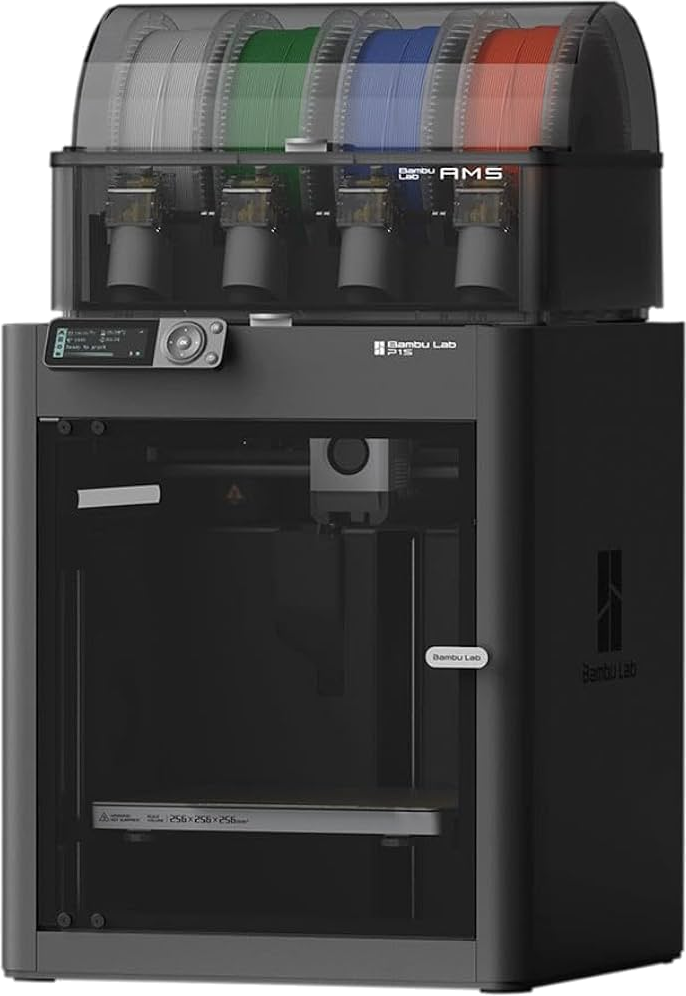
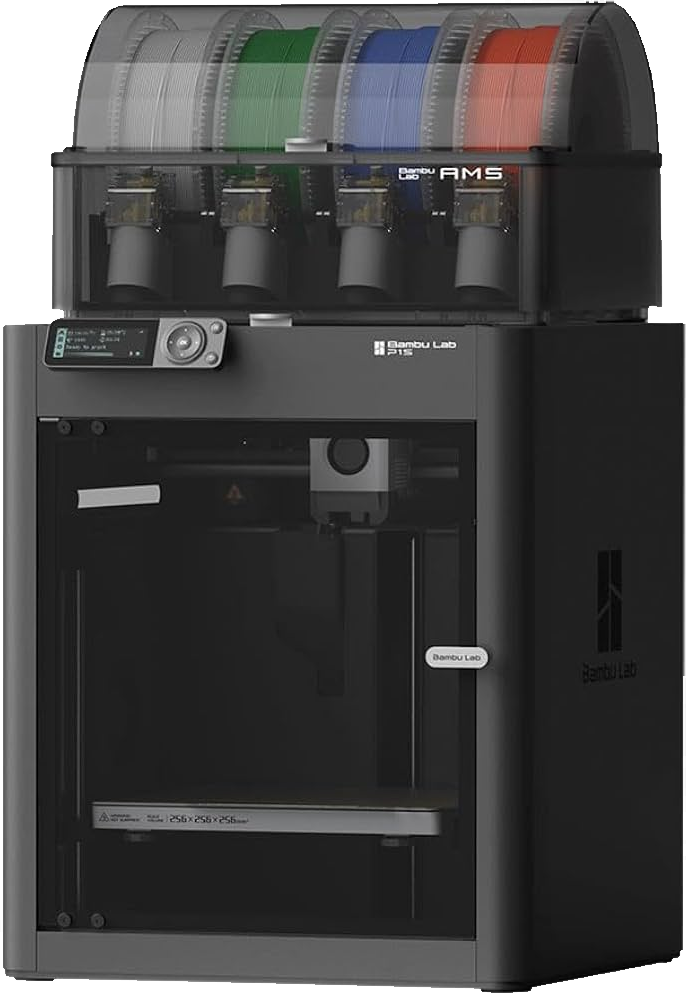
Impression 3D : corrections de relecture avant publication
- Photo « imprimante + montures » retirée : identique à un visuel
  d'oomade.com (reproduction soumise à l'accord écrit de FTA), décision
  du propriétaire. Section sur mesure : fiche technique à la place.
- Image de partage og-impression-3d (1200×630) composée à partir de la
  photo de la P1S (tools/affiches/og-impression-3d.html).
- P1S détourée : liseré blanc supprimé (alpha érodé de 2 px).
- Grammaire (« ou sa référence », « une monture fabriquée sur place »),
  source de « amidon de maïs » citée, contraste de la légende sur crème.
- CLAUDE.md : liste complète des endroits à modifier si le tarif change.

Claude-Session: https://claude.ai/code/session_011Cfk4Fi6m6746xBwvrMTkP

diff --git a/impression-3d.html b/impression-3d.html
@@ -12,19 +12,23 @@
 <meta property="og:url" content="https://www.pigeard-opticiens.fr/impression-3d.html" />
 <meta property="og:title" content="Lunettes cassées ? Dépannage imprimé en 3D en magasin — Pigeard Opticiens" />
 <meta property="og:description" content="Une monture de dépannage imprimée à la forme de vos verres en une vingtaine de minutes, pour 30 €, dans nos 3 magasins du Perche. Ouvert à tous." />
-<meta property="og:image" content="https://www.pigeard-opticiens.fr/assets/photos/impression-3d/imprimante-montures.jpg" />
-<meta property="og:image:width" content="1100" />
-<meta property="og:image:height" content="1100" />
+<meta property="og:image" content="https://www.pigeard-opticiens.fr/assets/photos/impression-3d/og-impression-3d.jpg" />
+<meta property="og:image:width" content="1200" />
+<meta property="og:image:height" content="630" />
 <meta name="twitter:card" content="summary_large_image" />
 <meta name="twitter:title" content="Lunettes imprimées en 3D — Pigeard Opticiens" />
 <meta name="twitter:description" content="Dépannage de lunettes cassées en une vingtaine de minutes (30 €) et montures sur mesure, imprimés en 3D dans nos magasins du Perche." />
-<meta name="twitter:image" content="https://www.pigeard-opticiens.fr/assets/photos/impression-3d/imprimante-montures.jpg" />
+<meta name="twitter:image" content="https://www.pigeard-opticiens.fr/assets/photos/impression-3d/og-impression-3d.jpg" />
 <!--
   Sources des informations :
   - Propriétaire (2026-10-14) : service disponible dans les 3 magasins, monture de dépannage adaptée
     aux verres de la monture cassée à 30 €, ouvert à tous les clients, une vingtaine de minutes,
-    imprimante Bambu Lab P1S. Les deux photos (imprimante détourée, imprimante + montures) ont été
-    fournies par le propriétaire pour publication.
+    imprimante Bambu Lab P1S. Photo de l'imprimante (détourée) fournie par le propriétaire pour
+    publication ; image de partage og-impression-3d.* composée à partir d'elle
+    (tools/affiches/og-impression-3d.html).
+  - Une 2e photo fournie (imprimante + 2 montures) s'est révélée identique à oom13-proto-duo.jpg
+    d'oomade.com : retirée avant publication (choix du propriétaire, 2026-10-14), à remettre
+    seulement avec l'accord écrit de FTA ou une photo prise dans un magasin Pigeard.
   - https://www.oomade.com/ootrace/ (vérifié le 2026-10-14) : relevé du verre au smartphone, face
     redessinée à la forme du verre, verres d'origine remontés, PLA éphémère « quelques semaines »,
     charnières métal, verres asymétriques gérés.
@@ -32,6 +36,8 @@
     mesures du porteur, choix à l'écran, « quelques dizaines de minutes », PETG recyclable,
     ISO 12870, numéro de série dans la branche → réimpression à l'identique. Le relevé de
     morphologie par scan du visage y est marqué « Bientôt disponible » → non mentionné ici.
+  - https://www.oomade.com/ (page d'accueil, vérifiée le 2026-10-14) : PLA « biosourcé », « à base
+    d'amidon de maïs », pour le dépannage.
   - Silmo d'Or 2024 : OOmade lauréat (catégorie innovation technologique, « OOmade SAV 3D »),
     https://eyecarebusiness.com/news/2024/winners-of-31st-silmo-dor-awards-announced/
   Aucune photo d'oomade.com n'est utilisée (reproduction soumise à l'autorisation écrite de FTA).
@@ -44,7 +50,7 @@
   "url": "https://www.pigeard-opticiens.fr/impression-3d.html",
   "name": "Lunettes imprimées en 3D en magasin — Pigeard Opticiens",
   "description": "Dépannage de lunettes cassées par impression 3D d'une monture à la forme des verres du client (30 €, une vingtaine de minutes, dans les trois magasins Pigeard), et montures sur mesure imprimées en magasin avec la solution OOmade.",
-  "image": "https://www.pigeard-opticiens.fr/assets/photos/impression-3d/imprimante-montures.jpg",
+  "image": "https://www.pigeard-opticiens.fr/assets/photos/impression-3d/og-impression-3d.jpg",
   "breadcrumb": {
     "@type": "BreadcrumbList",
     "itemListElement": [
@@ -80,7 +86,7 @@
     {"@type": "Question", "name": "Combien coûte le dépannage ?", "acceptedAnswer": {"@type": "Answer", "text": "30 € pour la monture de dépannage, imprimée à la forme des verres de votre monture cassée."}},
     {"@type": "Question", "name": "Combien de temps faut-il ?", "acceptedAnswer": {"@type": "Answer", "text": "Comptez une vingtaine de minutes pour un dépannage. Une monture définitive sur mesure demande quelques dizaines de minutes."}},
     {"@type": "Question", "name": "Dans quel magasin, et faut-il être client ?", "acceptedAnswer": {"@type": "Answer", "text": "Le service est proposé dans nos trois magasins : Nogent-le-Rotrou, Brou et La Loupe. Il est ouvert à tous, que vous soyez déjà client Pigeard ou non."}},
-    {"@type": "Question", "name": "Mes lunettes sont cassées : que dois-je apporter ?", "acceptedAnswer": {"@type": "Answer", "text": "Vos verres avant tout : ce sont eux qui servent de modèle à la nouvelle monture. Peu importe l'état de la monture d'origine, ni sa référence."}},
+    {"@type": "Question", "name": "Mes lunettes sont cassées : que dois-je apporter ?", "acceptedAnswer": {"@type": "Answer", "text": "Vos verres avant tout : ce sont eux qui servent de modèle à la nouvelle monture. Peu importe l'état de la monture d'origine ou sa référence."}},
     {"@type": "Question", "name": "Faut-il refaire mes verres ou une nouvelle ordonnance ?", "acceptedAnswer": {"@type": "Answer", "text": "Non. Vos verres d'origine sont remontés sur la monture imprimée : votre correction ne change pas."}},
     {"@type": "Question", "name": "La monture de dépannage est-elle faite pour durer ?", "acceptedAnswer": {"@type": "Answer", "text": "Non, et c'est voulu : elle est imprimée en PLA, une matière biosourcée dont la durée de vie est limitée à quelques semaines, le temps de choisir votre prochain équipement."}},
     {"@type": "Question", "name": "Une monture imprimée en 3D, c'est solide ?", "acceptedAnswer": {"@type": "Answer", "text": "La monture définitive est imprimée en PETG, un polyester technique résistant aux chocs, et répond à la norme ISO 12870, la norme des montures de lunettes. Un numéro de série imprimé dans la branche permet de réimprimer une pièce cassée à l'identique."}}
@@ -129,8 +135,9 @@
 .sec--cream .i3-num::before{background:var(--bois)}
 .i3-h2{font-family:var(--serif);font-weight:700;font-size:clamp(2.2rem,5vw,3.6rem);line-height:1.03;letter-spacing:-.02em}
 .i3-intro{display:grid;grid-template-columns:1.05fr .95fr;gap:clamp(40px,6vw,90px);align-items:center}
-.i3-photo{border-radius:18px;overflow:hidden;box-shadow:0 24px 70px -24px rgba(0,0,0,.45)}
-.i3-photo img{width:100%;height:auto;display:block}
+.i3-fiche{border-radius:20px;background:#fff;padding:clamp(28px,4vw,44px);box-shadow:0 24px 60px -30px rgba(38,35,28,.35)}
+.i3-fiche .tag{font-size:.72rem;letter-spacing:.22em;text-transform:uppercase;font-weight:700;color:var(--bois)}
+.i3-fiche .i3-specs{margin-top:18px;gap:18px}
 
 /* ── encart tarif du dépannage ── */
 .i3-tarif{border-radius:20px;background:var(--creme);color:var(--encre);padding:clamp(28px,4vw,44px);box-shadow:0 30px 80px -30px rgba(0,0,0,.7);position:relative;overflow:hidden}
@@ -197,7 +204,7 @@
   .i3-atouts{grid-template-columns:repeat(2,1fr)}
   .i3-eng{grid-template-columns:1fr}
   .i3-intro{grid-template-columns:1fr}
-  .i3-intro .i3-photo{max-width:560px}
+  .i3-fiche{max-width:560px}
   .i3-tarif{max-width:520px}
   .i3-etapes{grid-template-columns:1fr}
 }
@@ -328,29 +335,29 @@
 <section class="sec sec--cream" id="sur-mesure-3d">
   <div class="wrap">
     <div class="i3-intro">
-      <div class="i3-photo reveal">
-        <picture><source srcset="assets/photos/impression-3d/imprimante-montures.webp" type="image/webp"><img src="assets/photos/impression-3d/imprimante-montures.jpg" alt="L'imprimante 3D en magasin et deux montures imprimées, l'une noire, l'autre écaille, posées sur le comptoir" width="1100" height="1100" loading="lazy" decoding="async"></picture>
-      </div>
       <div class="reveal">
         <div class="i3-num">02 — Création sur mesure</div>
         <h2 class="i3-h2">Une monture dessinée <em style="font-style:italic;color:var(--vert)">pour vous</em>, imprimée sous vos yeux.</h2>
         <p style="margin-top:22px;max-width:52ch">L'imprimante ne sert pas qu'au dépannage : elle fabrique aussi des montures définitives, conçues pour un seul visage. Écart entre les yeux, largeur et hauteur du nez, distance aux tempes, longueur des branches : la monture part de vos mesures, pas d'une taille standard.</p>
         <p style="margin-top:14px;max-width:52ch">Forme, épaisseur, couleur, finition : vous voyez votre modèle à l'écran et vous le modifiez avec nous, en direct. Puis l'impression démarre en magasin — quelques dizaines de minutes, et vous pouvez assister à sa fabrication.</p>
+        <div style="margin-top:30px">
+          <a class="btn btn--primary" href="magasins.html#rdv">Prendre rendez-vous <span class="arr">→</span></a>
+        </div>
+      </div>
+      <div class="i3-fiche reveal">
+        <span class="tag">La monture définitive</span>
         <div class="i3-specs">
           <div class="i3-spec"><span class="dot"></span><p><strong>Matière</strong> — PETG, un polyester technique résistant aux chocs et recyclable.</p></div>
           <div class="i3-spec"><span class="dot"></span><p><strong>Norme</strong> — conforme à la norme ISO 12870, celle des montures de lunettes.</p></div>
           <div class="i3-spec"><span class="dot"></span><p><strong>Vos verres</strong> — la monture est conçue autour de vos verres et de leur centrage : un atout pour les fortes corrections.</p></div>
           <div class="i3-spec"><span class="dot"></span><p><strong>Réparable</strong> — un numéro de série imprimé dans la branche permet de réimprimer une pièce cassée à l'identique.</p></div>
         </div>
-        <div style="margin-top:30px">
-          <a class="btn btn--primary" href="magasins.html#rdv">Prendre rendez-vous <span class="arr">→</span></a>
-        </div>
       </div>
     </div>
 
     <div class="i3-note reveal" style="max-width:760px;margin:56px auto 0">
       <span class="tag">Deux sur-mesure, deux savoir-faire</span>
-      <p>Nos lunettes faites main dans l'acétate du Jura, dans notre atelier de Nogent-le-Rotrou, restent notre signature. L'impression 3D ouvre une autre voie : fabriquée sur place, dans la journée, pour les visages que les tailles standard habillent mal. <a href="services.html#sur-mesure">Découvrir le sur-mesure fait main</a>.</p>
+      <p>Nos lunettes faites main dans l'acétate du Jura, dans notre atelier de Nogent-le-Rotrou, restent notre signature. L'impression 3D ouvre une autre voie : une monture fabriquée sur place, dans la journée, pour les visages que les tailles standard habillent mal. <a href="services.html#sur-mesure">Découvrir le sur-mesure fait main</a>.</p>
     </div>
   </div>
 </section>
@@ -390,7 +397,7 @@
     <details class="faq-item reveal"><summary>Combien coûte le dépannage ?</summary><p>30 € pour la monture de dépannage, imprimée à la forme des verres de votre monture cassée.</p></details>
     <details class="faq-item reveal"><summary>Combien de temps faut-il ?</summary><p>Comptez une vingtaine de minutes pour un dépannage. Une monture définitive sur mesure demande quelques dizaines de minutes.</p></details>
     <details class="faq-item reveal"><summary>Dans quel magasin, et faut-il être client ?</summary><p>Le service est proposé dans nos trois magasins : <a href="opticien-nogent-le-rotrou.html">Nogent-le-Rotrou</a>, <a href="opticien-brou.html">Brou</a> et <a href="opticien-la-loupe.html">La Loupe</a>. Il est ouvert à tous, que vous soyez déjà client Pigeard ou non.</p></details>
-    <details class="faq-item reveal"><summary>Mes lunettes sont cassées : que dois-je apporter ?</summary><p>Vos verres avant tout : ce sont eux qui servent de modèle à la nouvelle monture. Peu importe l'état de la monture d'origine, ni sa référence.</p></details>
+    <details class="faq-item reveal"><summary>Mes lunettes sont cassées : que dois-je apporter ?</summary><p>Vos verres avant tout : ce sont eux qui servent de modèle à la nouvelle monture. Peu importe l'état de la monture d'origine ou sa référence.</p></details>
     <details class="faq-item reveal"><summary>Faut-il refaire mes verres ou une nouvelle ordonnance ?</summary><p>Non. Vos verres d'origine sont remontés sur la monture imprimée : votre correction ne change pas.</p></details>
     <details class="faq-item reveal"><summary>La monture de dépannage est-elle faite pour durer ?</summary><p>Non, et c'est voulu : elle est imprimée en PLA, une matière biosourcée dont la durée de vie est limitée à quelques semaines, le temps de choisir votre prochain équipement.</p></details>
     <details class="faq-item reveal"><summary>Une monture imprimée en 3D, c'est solide ?</summary><p>La monture définitive est imprimée en PETG, un polyester technique résistant aux chocs, et répond à la norme ISO 12870, la norme des montures de lunettes. Un numéro de série imprimé dans la branche permet de réimprimer une pièce cassée à l'identique.</p></details>

diff --git a/tools/affiches/og-impression-3d.html b/tools/affiches/og-impression-3d.html
@@ -1,0 +1,56 @@
+<!DOCTYPE html>
+<html lang="fr">
+<head>
+<meta charset="utf-8">
+<title>Visuel de partage — Impression 3D chez Pigeard</title>
+<!-- Image de partage 1 200 × 630 (og:image / twitter:image) de impression-3d.html,
+     rendue en JPEG + WebP via tools/affiches/rendu-visuel.mjs :
+       node rendu-visuel.mjs og-impression-3d.html ../../assets/photos/impression-3d/og-impression-3d 1200 630
+     - imprimante : photo de la Bambu Lab P1S fournie par le propriétaire le 2026-10-14,
+       détourée (assets/photos/impression-3d/bambu-lab-p1s.png) ;
+     - textes : informations du propriétaire du 2026-10-14 (3 magasins, 30 €, une
+       vingtaine de minutes) ; aucune photo ni logo d'oomade.com n'est reproduit. -->
+<link rel="stylesheet" href="../../assets/css/fonts.css">
+<style>
+  :root{
+    --fond:#12110E; --creme:#E7DDCB; --blanc:#EFE9DF; --camel:#D1A379; --vert:#9DAA78;
+    --corail:#FF625B; --muted:#938B7C;
+    --serif:'Playfair Display',Georgia,serif;
+    --sans:'Karla',system-ui,sans-serif;
+    --hand:'Reenie Beanie',cursive;
+  }
+  *{margin:0;padding:0;box-sizing:border-box}
+  html,body{width:1200px;height:630px;overflow:hidden}
+  body{
+    position:relative;font-family:var(--sans);color:var(--blanc);
+    background:
+      radial-gradient(420px 380px at 930px 330px, rgba(239,233,223,.30), rgba(209,163,121,.10) 58%, transparent 80%),
+      radial-gradient(520px 420px at 160px 120px, rgba(126,140,90,.20), transparent 75%),
+      var(--fond);
+  }
+  .texte{position:absolute;left:78px;top:84px;width:620px}
+  .pill{display:inline-flex;align-items:center;gap:10px;font-size:15px;font-weight:700;letter-spacing:.16em;text-transform:uppercase;color:#0E0D0B;background:var(--corail);padding:9px 18px;border-radius:100px}
+  .pill i{width:8px;height:8px;border-radius:50%;background:#0E0D0B}
+  h1{font-family:var(--serif);font-weight:800;font-size:66px;line-height:1.02;letter-spacing:-.02em;margin-top:26px}
+  h1 em{font-style:italic;color:var(--vert)}
+  .sous{font-family:var(--serif);font-style:italic;font-size:27px;line-height:1.35;color:var(--creme);margin-top:22px;max-width:560px}
+  .prix{display:flex;align-items:baseline;gap:16px;margin-top:30px}
+  .prix b{font-family:var(--serif);font-weight:800;font-size:58px;line-height:1;color:var(--blanc)}
+  .prix span{font-size:20px;color:var(--muted);max-width:300px;line-height:1.35}
+  .machine{position:absolute;right:120px;top:52px;height:500px;filter:drop-shadow(0 30px 36px rgba(0,0,0,.6))}
+  .hand{position:absolute;right:150px;bottom:24px;font-family:var(--hand);font-size:38px;color:var(--camel);transform:rotate(-3deg)}
+  .marque{position:absolute;left:78px;bottom:40px;font-size:15px;letter-spacing:.32em;text-transform:uppercase;color:var(--muted)}
+</style>
+</head>
+<body>
+  <div class="texte">
+    <span class="pill"><i></i>Nouveau dans nos 3 magasins</span>
+    <h1>Lunettes cassées ?<br>Dépannées <em>en 3D</em>.</h1>
+    <p class="sous">Une monture à la forme de vos verres, prête en une vingtaine de minutes.</p>
+    <div class="prix"><b>30 €</b><span>la monture de dépannage, ouvert à tous</span></div>
+  </div>
+  <img class="machine" src="../../assets/photos/impression-3d/bambu-lab-p1s.png" alt="">
+  <span class="hand">fabriqué sous vos yeux</span>
+  <div class="marque">Pigeard · Nogent-le-Rotrou · Brou · La Loupe</div>
+</body>
+</html>

diff --git a/services.html b/services.html
@@ -124,7 +124,7 @@
 .i3-machine img{position:relative;z-index:1;width:100%;height:auto;display:block;filter:drop-shadow(0 30px 34px rgba(38,35,28,.35))}
 .i3-machine figcaption{position:relative;z-index:1;text-align:center;margin-top:18px}
 .i3-machine figcaption .hand{display:block;font-size:1.8rem;transform:rotate(-3deg)}
-.i3-machine figcaption small{display:block;margin-top:6px;font-size:.72rem;letter-spacing:.18em;text-transform:uppercase;color:#7a7264}
+.i3-machine figcaption small{display:block;margin-top:6px;font-size:.72rem;letter-spacing:.18em;text-transform:uppercase;color:#5c554a}
 #impression-3d .svc-num::before{background:var(--bois)}
 .hero-new{display:inline-flex;align-items:center;gap:8px}
 .hero-new i{width:7px;height:7px;border-radius:50%;background:var(--corail)}

diff --git a/CLAUDE.md b/CLAUDE.md
@@ -121,13 +121,20 @@ commentaires de code, échanges avec le propriétaire.
   le titre + pastille cliquable, styles dans `index.html`). `services.html` :
   section `#impression-3d` en tête + lien dans le hero. Sitemap
   (`build_static.py`) et `llms.txt` à jour.
-- Photos : **uniquement** les deux fournies par le propriétaire
-  (`assets/photos/impression-3d/bambu-lab-p1s.*`, détourée, et
-  `imprimante-montures.*`). Ne pas reprendre de photos d'oomade.com : leurs
-  mentions légales interdisent la reproduction sans accord écrit de FTA.
+- Photos : **uniquement** la Bambu Lab P1S fournie par le propriétaire
+  (`assets/photos/impression-3d/bambu-lab-p1s.*`, détourée, alpha érodé de
+  2 px contre le liseré blanc) + l'image de partage `og-impression-3d.*`
+  (1200×630, composée dans `tools/affiches/og-impression-3d.html`, rendu
+  `rendu-visuel.mjs`). Ne pas reprendre de photos d'oomade.com : leurs
+  mentions légales interdisent la reproduction sans accord écrit de FTA. Une
+  2e photo fournie (imprimante + 2 montures) était identique à
+  `oom13-proto-duo.jpg` d'oomade.com (dont une monture en acétate) : retirée
+  le 2026-10-14 sur décision du propriétaire, à remettre seulement avec
+  l'accord écrit de FTA ou une photo prise dans un magasin Pigeard.
 - Changement de tarif ou de délai : mettre à jour `impression-3d.html`
-  (hero, atouts, encart tarif, FAQ **et** les deux JSON-LD), `services.html`
-  et `llms.txt`.
+  (`<title>`, meta description, og:description et twitter:description, hero,
+  atouts, encart tarif, étape 03, FAQ **et** les deux JSON-LD), `services.html`
+  (texte et JSON-LD) et `llms.txt`.
 
 ## Logos des marques (page « Nos marques »)
 
